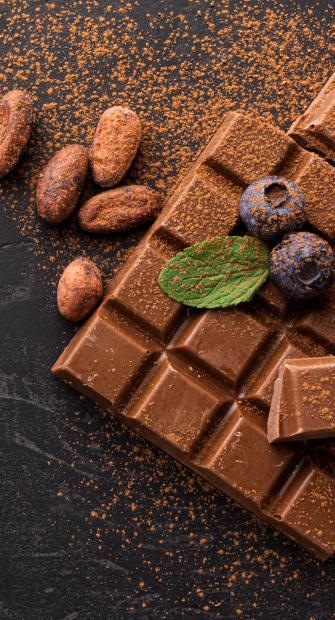
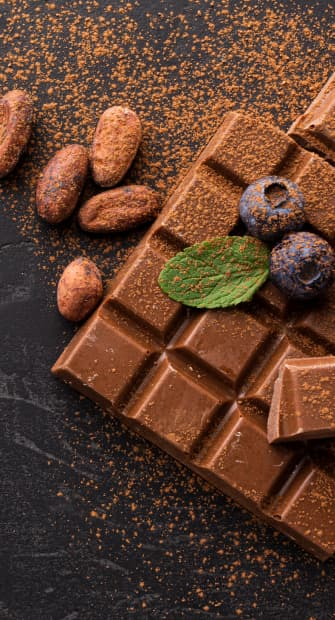
hero photos updated - with squosh

diff --git a/src/css/section-hero.css b/src/css/section-hero.css
@@ -216,7 +216,7 @@ screen and (min-resolution: 2dppx) {
    }
 }
 
-/* DESCTOP */
+/* DESKTOP */
 @media screen and (min-width: 1200px) {
    .hero-wraper {
       padding-top: 381px;
